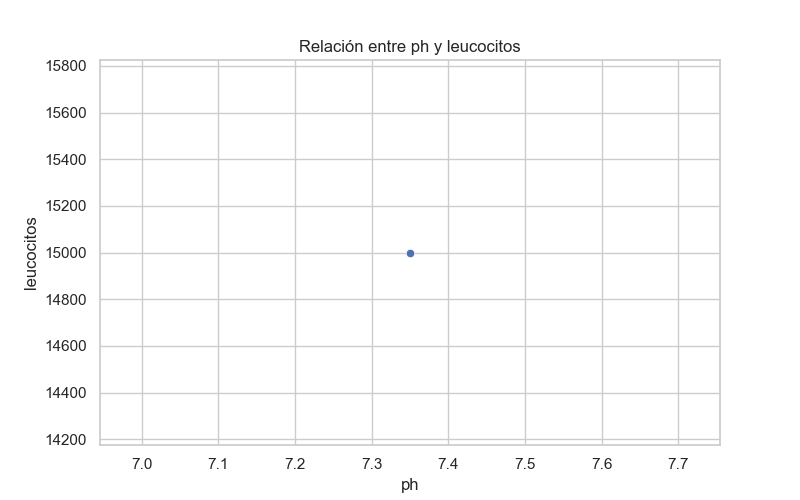
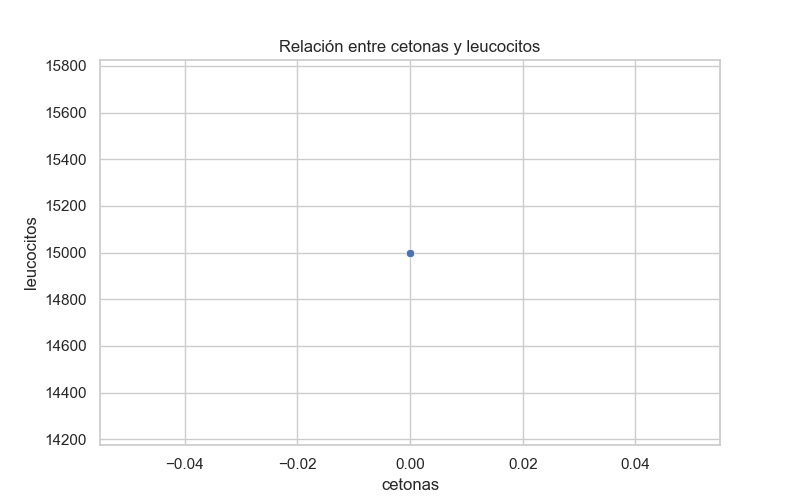
updated lang

diff --git a/proyecto_conexion_flask_react/backend/app_backup_mod_Lang.py b/proyecto_conexion_flask_react/backend/app_backup_mod_Lang.py
@@ -1,4 +1,4 @@
-from flask import Flask, request, jsonify
+from flask import Flask, request, jsonify, send_from_directory
 import pandas as pd
 import os
 import re
@@ -15,6 +15,11 @@ client = openai.OpenAI(
 
 app = Flask(__name__)
 CORS(app, resources={r"/*": {"origins": "*"}}, supports_credentials=True)  # Habilitar CORS para todas las rutas
+
+# Asegurar que Flask sirva archivos de imágenes
+@app.route('/images/<path:filename>')
+def serve_image(filename):
+    return send_from_directory(os.getcwd(), filename)  # Sirve imágenes desde el directorio de trabajo
 
 # Configuración de LangChain con Claude-Sonnet en Bedrock
 chat_model = ChatAnthropic(
@@ -83,16 +88,21 @@ def ask_ai():
         if not user_message:
             return jsonify({"error": "Mensaje vacío"}), 400
 
-        # Identificar si es una pregunta de gráfica
+        # Recuperar contexto del paciente
+        contexto_paciente = contextos_pacientes.get(id_paciente, "")
+
+        messages = [
+            {"role": "system", "content": contexto_paciente},
+            {"role": "user", "content": user_message}
+        ]
+
+        # Verificar si la pregunta es sobre gráficos
         if any(word in user_message.lower() for word in ["gráfico", "gráfica", "grafica", "dispersión", "histograma", "barras", "boxplot", "violín", "correlación", "tendencia"]):
-            paciente_data = lab_df[lab_df["pacienteid"] == id_paciente]  # Ahora usa datos de laboratorio
+            paciente_data = lab_df[lab_df["pacienteid"] == id_paciente]
             if paciente_data.empty:
                 return jsonify({"error": "Paciente no encontrado en datos de laboratorio"}), 404
 
             df = paciente_data.drop(columns=["pacienteid"])
-            print("Columnas disponibles en el dataset:", list(df.columns))  # Depuración
-
-            # Limpiar el mensaje del usuario (eliminar signos de puntuación)
             mensaje_limpio = re.sub(r'[^\w\s]', '', user_message.lower())
             palabras_usuario = mensaje_limpio.split()
             variables_encontradas = [col for col in df.columns if any(palabra in col.lower() for palabra in palabras_usuario)]
@@ -100,41 +110,24 @@ def ask_ai():
             x = variables_encontradas[0] if len(variables_encontradas) > 0 else None
             y = variables_encontradas[1] if len(variables_encontradas) > 1 else None
 
-            print(f"Palabras en el mensaje después de limpieza: {palabras_usuario}")
-            print(f"Variables detectadas en el dataset: {variables_encontradas}")
-            print(f"Usuario pidió gráfica con x={x} y={y}")
-
             if not x or not y:
-                return jsonify({"error": f"No se encontraron suficientes variables en los datos para generar la gráfica. Variables detectadas: x={x}, y={y}"}), 400
+                return jsonify({"error": "No se encontraron suficientes variables en los datos para generar la gráfica."}), 400
 
-            graph_path = f"static/{x}_{y}_{id_paciente}.png"
+            base_filename = f"{x}_{y}_{id_paciente}.png"
+            graph_filename = base_filename
+            counter = 1
+            while os.path.exists(graph_filename):
+                graph_filename = f"{x}_{y}_{id_paciente}_{counter}.png"
+                counter += 1
 
-            if "dispersión" in user_message:
-                gd.graficaDispersion(df, x, y)
-            elif "histograma" in user_message:
-                gd.graficaHistograma(df, y)
-            elif "barras" in user_message:
-                gd.graficaBarras(df, x, y)
-            elif "boxplot" in user_message:
-                gd.graficaBoxplot(df, x)
-            elif "violín" in user_message:
-                gd.graficaViolin(df, x)
-            elif "correlación" in user_message:
-                gd.graficaCorrelacion(df)
-            elif "tendencia" in user_message:
-                gd.graficaCurvaTendencia(df, x, y)
-            else:
-                return jsonify({"error": "No se pudo detectar el tipo de gráfico."}), 400
+            graph_path = os.path.join(os.getcwd(), graph_filename)
+            gd.graficaDispersion(df, x, y)
 
             if os.path.exists(graph_path):
-                return jsonify({"message": "Gráfica generada exitosamente.", "graph_path": graph_path})
+                graph_url = f"/images/{os.path.basename(graph_filename)}"
+                return jsonify({"message": "Gráfica generada exitosamente.", "graph_url": graph_url})
             else:
                 return jsonify({"error": "La gráfica no se generó correctamente."}), 500
-
-        messages = [
-            {"role": "system", "content": contextos_pacientes.get(id_paciente, "")},
-            {"role": "user", "content": user_message}
-        ]
 
         response = client.chat.completions.create(
             model="bedrock/anthropic.claude-3-5-sonnet-20240620-v1:0",
